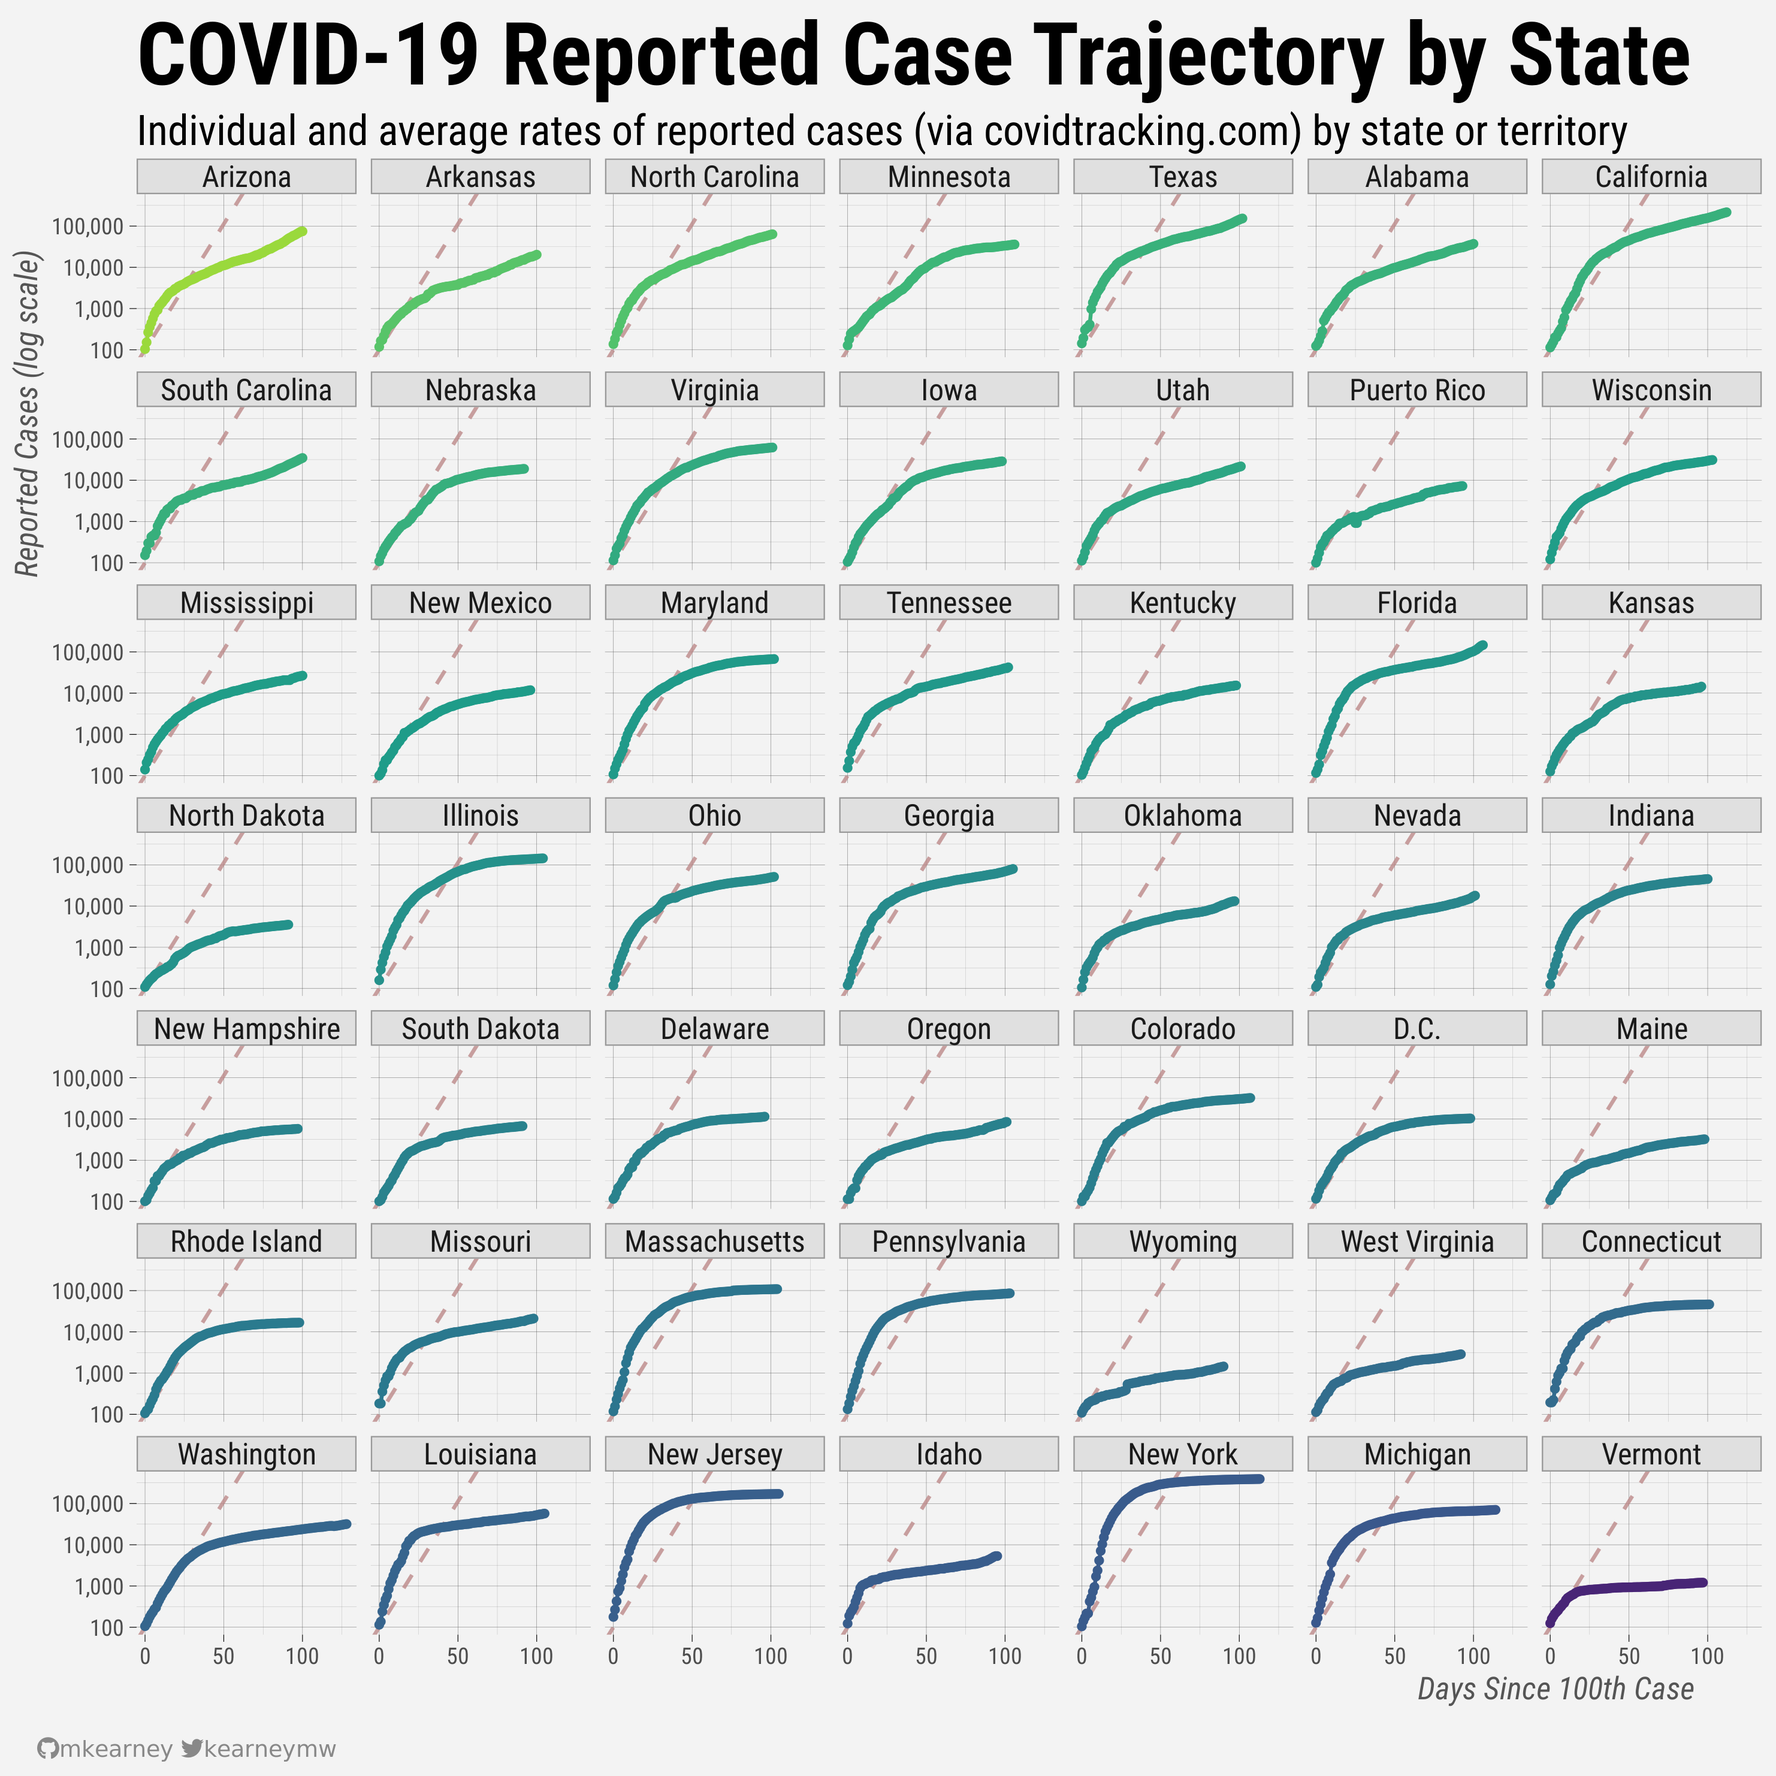
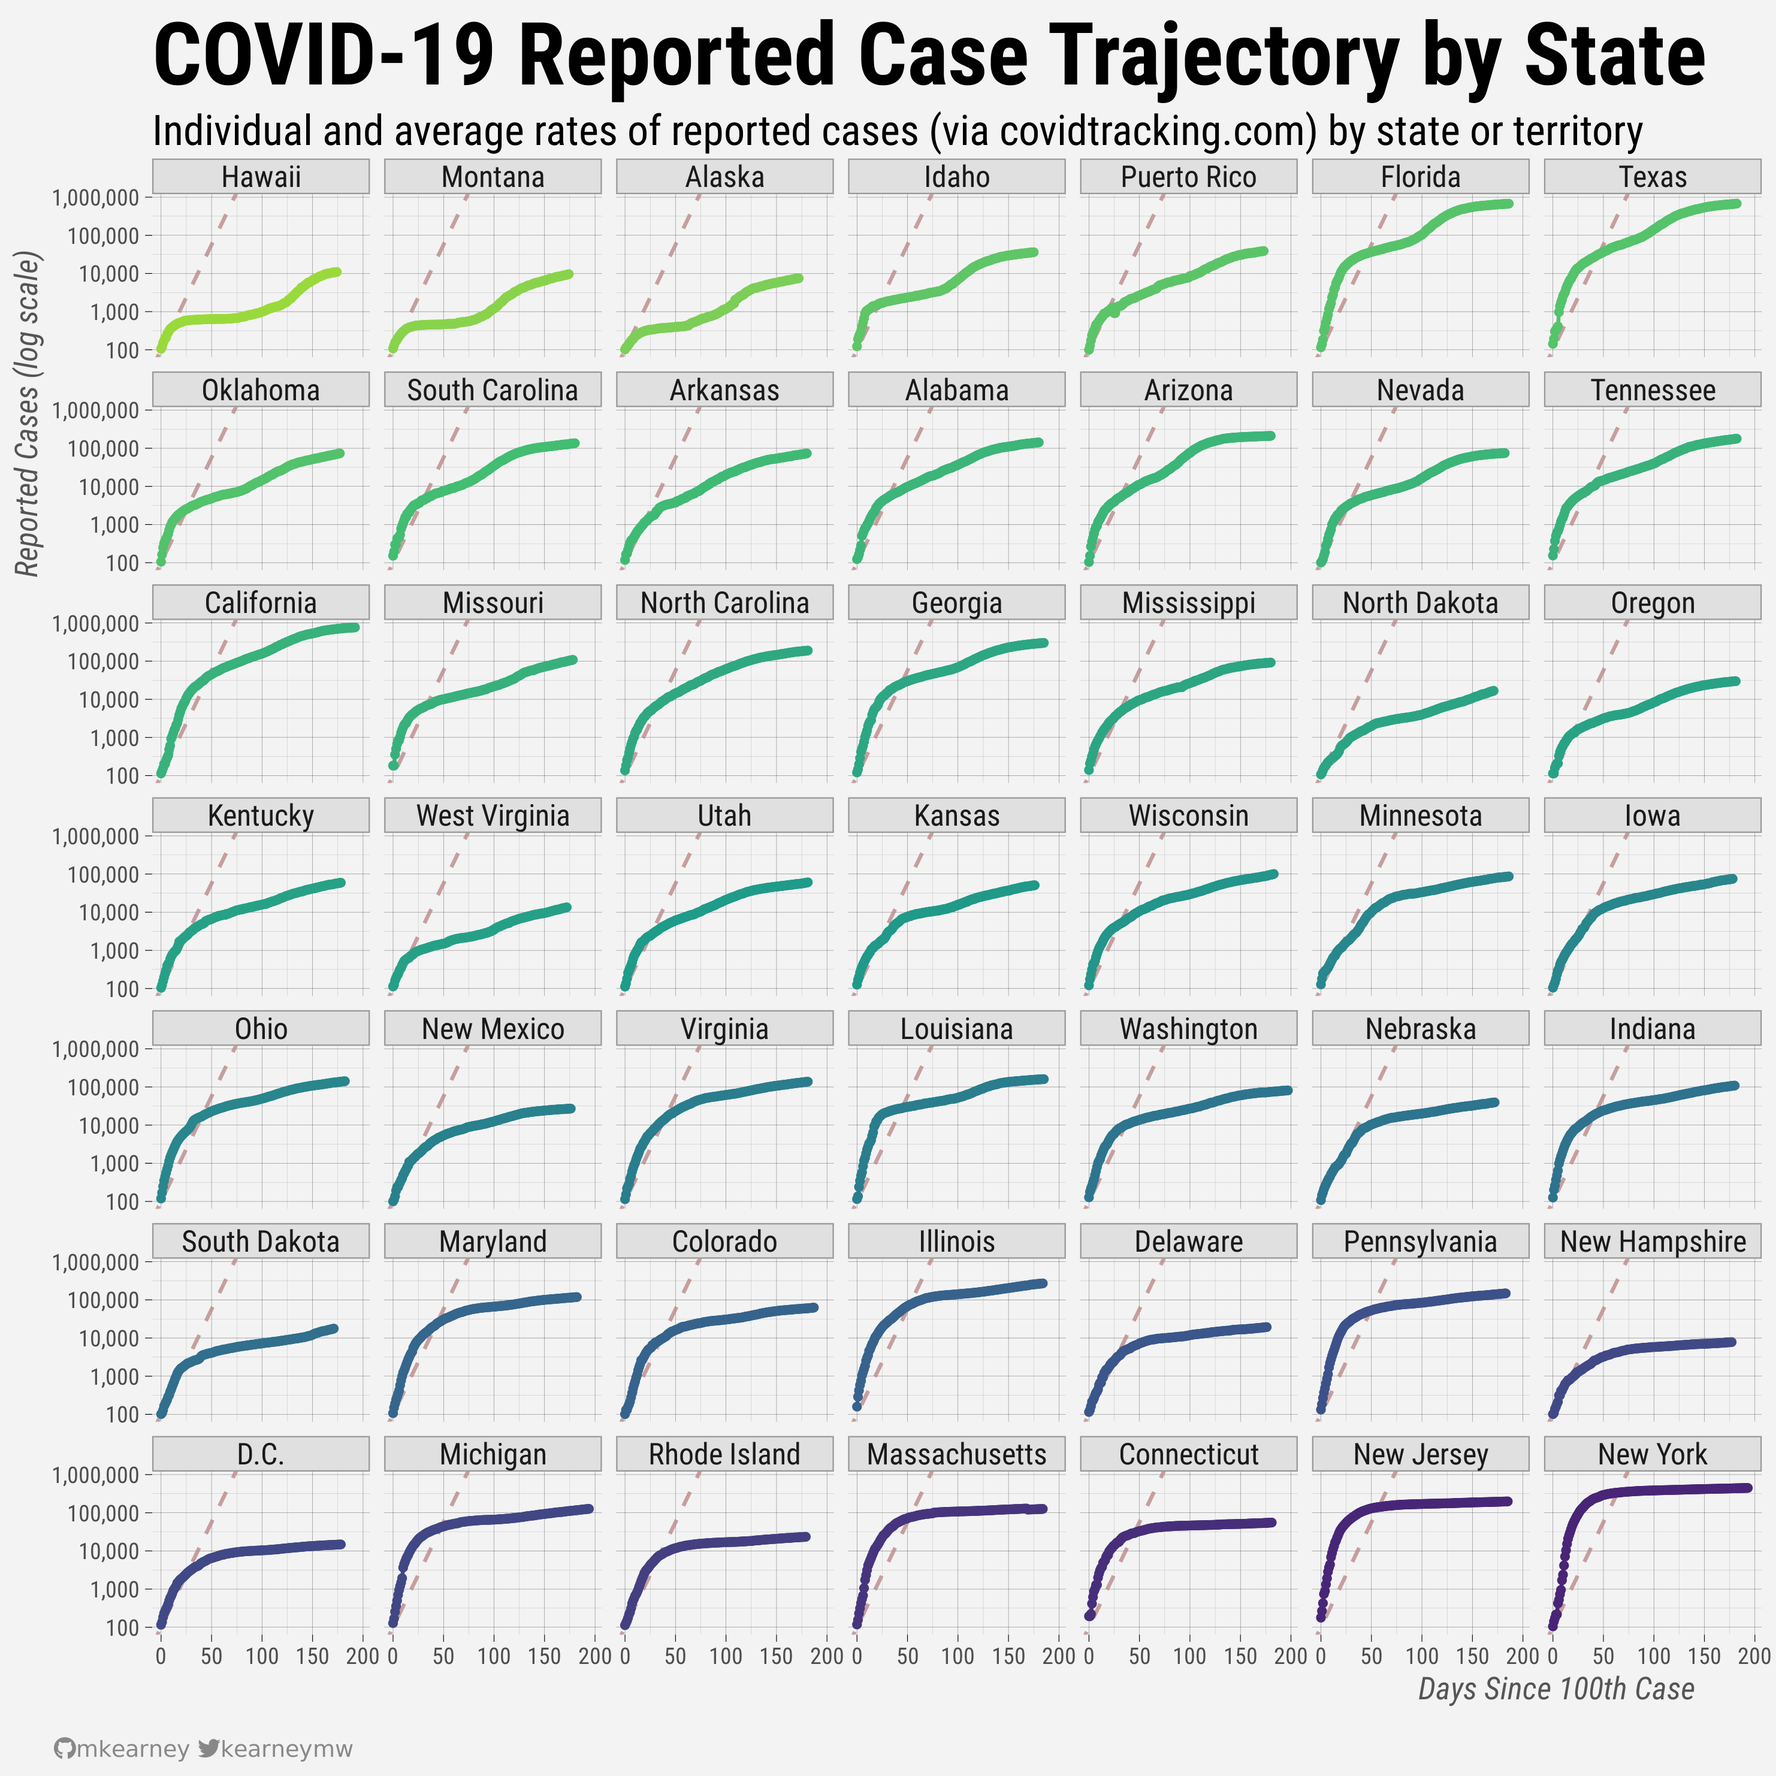
daily cron update

Changed region(s): [[0.031, 0.0, 0.9933, 0.9622], [0.031, 0.9622, 0.1862, 0.9933], [0.5897, 0.6518, 0.6208, 0.6829]]

diff --git a/README.md b/README.md
@@ -40,11 +40,11 @@ grouped by similar endpoints and included below.
     #> # A tibble: 1 x 25
     #>   date       states positive negative pending hospitalized_cu… hospitalized_cu…
     #>   <date>      <int>    <int>    <int>   <int>            <int>            <int>
-    #> 1 2020-06-29     56  2577473 28979934    2194            33198           240826
+    #> 1 2020-09-17     56  6641341 82709952   11768            29900           392173
     #> # … with 18 more variables: in_icu_currently <int>, in_icu_cumulative <int>,
     #> #   on_ventilator_currently <int>, on_ventilator_cumulative <int>,
     #> #   recovered <int>, date_checked <dttm>, death <int>, hospitalized <int>,
-    #> #   last_modified <dttm>, total <int>, total_test_results <int>, pos_neg <int>,
+    #> #   total_test_results <int>, last_modified <dttm>, total <int>, pos_neg <int>,
     #> #   death_increase <int>, hospitalized_increase <int>, negative_increase <int>,
     #> #   positive_increase <int>, total_test_results_increase <int>, hash <chr>
     ```
@@ -55,24 +55,24 @@ grouped by similar endpoints and included below.
     
     ``` r
     covid19_us_daily()
-    #> # A tibble: 160 x 25
+    #> # A tibble: 240 x 25
     #>    date       states positive negative pending hospitalized_cu… hospitalized_cu…
     #>    <date>      <int>    <int>    <int>   <int>            <int>            <int>
-    #>  1 2020-06-29     56  2577473 28979934    2194            33198           240826
-    #>  2 2020-06-28     56  2540983 28447030    2198            32117           240156
-    #>  3 2020-06-27     56  2498822 27902822    2186            32220           239576
-    #>  4 2020-06-26     56  2455351 27355416    2201            31423           238519
-    #>  5 2020-06-25     56  2410978 26796842    2133            31532           236993
-    #>  6 2020-06-24     56  2371917 26198316    2049            30826           235736
-    #>  7 2020-06-23     56  2333211 25724594    1891            29920           234426
-    #>  8 2020-06-22     56  2300193 25256198    2028            28490           233169
-    #>  9 2020-06-21     56  2273113 24818476    2084            27718           232369
-    #> 10 2020-06-20     56  2245856 24333555    2108            27757           231855
-    #> # … with 150 more rows, and 18 more variables: in_icu_currently <int>,
+    #>  1 2020-09-17     56  6641341 82709952   11768            29900           392173
+    #>  2 2020-09-16     56  6597783 81976741   10587            30278           390624
+    #>  3 2020-09-15     56  6557762 81351140    4966            30327           389107
+    #>  4 2020-09-14     56  6522317 80701552   10494            29867           387616
+    #>  5 2020-09-13     56  6488453 80329804   10467            29816           386679
+    #>  6 2020-09-12     56  6454000 79717367   10403            30662           386087
+    #>  7 2020-09-11     56  6411913 78910645   10813            31421           385011
+    #>  8 2020-09-10     56  6366986 78189575   10530            32419           383458
+    #>  9 2020-09-09     56  6329405 77613114    6551            32562           381926
+    #> 10 2020-09-08     56  6298422 77059685    8983            32263           379866
+    #> # … with 230 more rows, and 18 more variables: in_icu_currently <int>,
     #> #   in_icu_cumulative <int>, on_ventilator_currently <int>,
     #> #   on_ventilator_cumulative <int>, recovered <int>, date_checked <dttm>,
-    #> #   death <int>, hospitalized <int>, last_modified <dttm>, total <int>,
-    #> #   total_test_results <int>, pos_neg <int>, death_increase <int>,
+    #> #   death <int>, hospitalized <int>, total_test_results <int>,
+    #> #   last_modified <dttm>, total <int>, pos_neg <int>, death_increase <int>,
     #> #   hospitalized_increase <int>, negative_increase <int>,
     #> #   positive_increase <int>, total_test_results_increase <int>, hash <chr>
     ```
@@ -85,31 +85,167 @@ grouped by similar endpoints and included below.
     
     ``` r
     covid19_states()
-    #> # A tibble: 56 x 39
-    #>    date       state positive negative pending hospitalized_cu… hospitalized_cu…
-    #>    <date>     <chr>    <int>    <int>   <int>            <int>            <int>
-    #>  1 2020-06-29 AK         904   107805      NA               16               NA
-    #>  2 2020-06-29 AL       37175   356118      NA              715             2725
-    #>  3 2020-06-29 AR       20257   282279      NA              300             1380
-    #>  4 2020-06-29 AS           0      696      NA               NA               NA
-    #>  5 2020-06-29 AZ       74533   436890      NA             2721             4634
-    #>  6 2020-06-29 CA      216550  3845142      NA             6179               NA
-    #>  7 2020-06-29 CO       32307   287258      NA              234             5401
-    #>  8 2020-06-29 CT       46362   398614      NA               99            10268
-    #>  9 2020-06-29 DC       10292    85068      NA              121               NA
-    #> 10 2020-06-29 DE       11376    98555      NA               72               NA
-    #> # … with 46 more rows, and 32 more variables: in_icu_currently <int>,
-    #> #   in_icu_cumulative <int>, on_ventilator_currently <int>,
-    #> #   on_ventilator_cumulative <int>, recovered <int>, data_quality_grade <chr>,
-    #> #   last_update_et <chr>, date_modified <dttm>, check_time_et <chr>,
-    #> #   death <int>, hospitalized <int>, date_checked <dttm>,
-    #> #   total_tests_viral <int>, positive_tests_viral <int>,
-    #> #   negative_tests_viral <int>, positive_cases_viral <int>, fips <chr>,
-    #> #   positive_increase <int>, negative_increase <int>, total <int>,
-    #> #   total_test_results <int>, total_test_results_increase <int>, pos_neg <int>,
-    #> #   death_increase <int>, hospitalized_increase <int>, hash <chr>,
-    #> #   commercial_score <int>, negative_regular_score <int>, negative_score <int>,
-    #> #   positive_score <int>, score <int>, grade <chr>
+    #> $date
+    #> [1] 20200917
+    #> 
+    #> $state
+    #> [1] "MO"
+    #> 
+    #> $positive
+    #> [1] 108334
+    #> 
+    #> $negative
+    #> [1] 1070247
+    #> 
+    #> $pending
+    #> NULL
+    #> 
+    #> $hospitalizedCurrently
+    #> [1] 962
+    #> 
+    #> $hospitalizedCumulative
+    #> NULL
+    #> 
+    #> $inIcuCurrently
+    #> NULL
+    #> 
+    #> $inIcuCumulative
+    #> NULL
+    #> 
+    #> $onVentilatorCurrently
+    #> NULL
+    #> 
+    #> $onVentilatorCumulative
+    #> NULL
+    #> 
+    #> $recovered
+    #> NULL
+    #> 
+    #> $dataQualityGrade
+    #> [1] "B"
+    #> 
+    #> $lastUpdateEt
+    #> [1] "9/17/2020 00:00"
+    #> 
+    #> $dateModified
+    #> [1] "2020-09-17T00:00:00Z"
+    #> 
+    #> $checkTimeEt
+    #> [1] "09/16 20:00"
+    #> 
+    #> $death
+    #> [1] 1757
+    #> 
+    #> $hospitalized
+    #> NULL
+    #> 
+    #> $dateChecked
+    #> [1] "2020-09-17T00:00:00Z"
+    #> 
+    #> $totalTestsViral
+    #> [1] 1538232
+    #> 
+    #> $positiveTestsViral
+    #> [1] 115983
+    #> 
+    #> $negativeTestsViral
+    #> [1] 1419584
+    #> 
+    #> $positiveCasesViral
+    #> [1] 108334
+    #> 
+    #> $deathConfirmed
+    #> NULL
+    #> 
+    #> $deathProbable
+    #> NULL
+    #> 
+    #> $totalTestEncountersViral
+    #> NULL
+    #> 
+    #> $totalTestsPeopleViral
+    #> [1] 1178581
+    #> 
+    #> $totalTestsAntibody
+    #> NULL
+    #> 
+    #> $positiveTestsAntibody
+    #> NULL
+    #> 
+    #> $negativeTestsAntibody
+    #> NULL
+    #> 
+    #> $totalTestsPeopleAntibody
+    #> [1] 71852
+    #> 
+    #> $positiveTestsPeopleAntibody
+    #> [1] 3250
+    #> 
+    #> $negativeTestsPeopleAntibody
+    #> [1] 68602
+    #> 
+    #> $totalTestsPeopleAntigen
+    #> NULL
+    #> 
+    #> $positiveTestsPeopleAntigen
+    #> NULL
+    #> 
+    #> $totalTestsAntigen
+    #> NULL
+    #> 
+    #> $positiveTestsAntigen
+    #> NULL
+    #> 
+    #> $fips
+    #> [1] "29"
+    #> 
+    #> $positiveIncrease
+    #> [1] 1747
+    #> 
+    #> $negativeIncrease
+    #> [1] 12451
+    #> 
+    #> $total
+    #> [1] 1178581
+    #> 
+    #> $totalTestResultsSource
+    #> [1] "posNeg"
+    #> 
+    #> $totalTestResults
+    #> [1] 1178581
+    #> 
+    #> $totalTestResultsIncrease
+    #> [1] 14198
+    #> 
+    #> $posNeg
+    #> [1] 1178581
+    #> 
+    #> $deathIncrease
+    #> [1] 18
+    #> 
+    #> $hospitalizedIncrease
+    #> [1] 0
+    #> 
+    #> $hash
+    #> [1] "8f1e20026eaaec08f70121c09a237b778cf58008"
+    #> 
+    #> $commercialScore
+    #> [1] 0
+    #> 
+    #> $negativeRegularScore
+    #> [1] 0
+    #> 
+    #> $negativeScore
+    #> [1] 0
+    #> 
+    #> $positiveScore
+    #> [1] 0
+    #> 
+    #> $score
+    #> [1] 0
+    #> 
+    #> $grade
+    #> [1] ""
     ```
 
   - **`covid19_states_daily()`**: Counts (`positive`, `negative`,
@@ -118,31 +254,39 @@ grouped by similar endpoints and included below.
     
     ``` r
     covid19_states_daily()
-    #> # A tibble: 6,513 x 39
+    #> # A tibble: 11,074 x 54
     #>    date       state positive negative pending hospitalized_cu… hospitalized_cu…
     #>    <date>     <chr>    <int>    <int>   <int>            <int>            <int>
-    #>  1 2020-06-29 AK         904   107805      NA               16               NA
-    #>  2 2020-06-29 AL       37175   356118      NA              715             2725
-    #>  3 2020-06-29 AR       20257   282279      NA              300             1380
-    #>  4 2020-06-29 AS           0      696      NA               NA               NA
-    #>  5 2020-06-29 AZ       74533   436890      NA             2721             4634
-    #>  6 2020-06-29 CA      216550  3845142      NA             6179               NA
-    #>  7 2020-06-29 CO       32307   287258      NA              234             5401
-    #>  8 2020-06-29 CT       46362   398614      NA               99            10268
-    #>  9 2020-06-29 DC       10292    85068      NA              121               NA
-    #> 10 2020-06-29 DE       11376    98555      NA               72               NA
-    #> # … with 6,503 more rows, and 32 more variables: in_icu_currently <int>,
+    #>  1 2020-09-17 AK        7471   408392      NA               41               NA
+    #>  2 2020-09-17 AL      141757   903156      NA              740            16079
+    #>  3 2020-09-17 AR       73211   783707      NA              389             4896
+    #>  4 2020-09-17 AS           0     1571      NA               NA               NA
+    #>  5 2020-09-17 AZ      211660  1141222      NA              594            21821
+    #>  6 2020-09-17 CA      766201 12313836      NA             3621               NA
+    #>  7 2020-09-17 CO       62686   739236      NA              248             7288
+    #>  8 2020-09-17 CT       55386  1352887      NA               75            11447
+    #>  9 2020-09-17 DC       14790   326528      NA              100               NA
+    #> 10 2020-09-17 DE       19318   247850      NA               66               NA
+    #> # … with 11,064 more rows, and 47 more variables: in_icu_currently <int>,
     #> #   in_icu_cumulative <int>, on_ventilator_currently <int>,
     #> #   on_ventilator_cumulative <int>, recovered <int>, data_quality_grade <chr>,
     #> #   last_update_et <chr>, date_modified <chr>, check_time_et <chr>,
     #> #   death <int>, hospitalized <int>, date_checked <chr>,
     #> #   total_tests_viral <int>, positive_tests_viral <int>,
-    #> #   negative_tests_viral <int>, positive_cases_viral <int>, fips <chr>,
+    #> #   negative_tests_viral <int>, positive_cases_viral <int>,
+    #> #   death_confirmed <int>, death_probable <int>,
+    #> #   total_test_encounters_viral <int>, total_tests_people_viral <int>,
+    #> #   total_tests_antibody <int>, positive_tests_antibody <int>,
+    #> #   negative_tests_antibody <int>, total_tests_people_antibody <int>,
+    #> #   positive_tests_people_antibody <int>, negative_tests_people_antibody <int>,
+    #> #   total_tests_people_antigen <int>, positive_tests_people_antigen <int>,
+    #> #   total_tests_antigen <int>, positive_tests_antigen <int>, fips <chr>,
     #> #   positive_increase <int>, negative_increase <int>, total <int>,
-    #> #   total_test_results <int>, total_test_results_increase <int>, pos_neg <int>,
-    #> #   death_increase <int>, hospitalized_increase <int>, hash <chr>,
-    #> #   commercial_score <int>, negative_regular_score <int>, negative_score <int>,
-    #> #   positive_score <int>, score <int>, grade <chr>
+    #> #   total_test_results_source <chr>, total_test_results <int>,
+    #> #   total_test_results_increase <int>, pos_neg <int>, death_increase <int>,
+    #> #   hospitalized_increase <int>, hash <chr>, commercial_score <int>,
+    #> #   negative_regular_score <int>, negative_score <int>, positive_score <int>,
+    #> #   score <int>, grade <chr>
     ```
 
   - **`covid19_states_info()`**: State government links, Twitter
@@ -150,20 +294,22 @@ grouped by similar endpoints and included below.
     
     ``` r
     covid19_states_info()
-    #> # A tibble: 56 x 11
+    #> # A tibble: 56 x 13
     #>    state notes covid19site covid19site_sec… covid19site_ter… twitter
     #>    <chr> <chr> <chr>       <chr>            <chr>            <chr>  
-    #>  1 AK    "Tot… http://dhs… "http://dhss.al… "https://alaska… "@Alas…
-    #>  2 AL    "Neg… https://al… "https://dph1.a… ""               "@alpu…
-    #>  3 AR     <NA> https://ww… "https://adem.m… ""               "@adhp…
-    #>  4 AS    "Our… https://ww… "https://www.fa… ""               ""     
-    #>  5 AZ    "Das… https://ww… "https://tablea… "https://tablea… "@azdh…
-    #>  6 CA    "Cal… https://ww… "https://www.cd… ""               "@CAPu…
-    #>  7 CO    "Neg… https://co… "https://covid1… "https://covid1… "@cdph…
-    #>  8 CT    "Neg… https://da… ""               ""               "@ctdp…
-    #>  9 DC    "Pos… https://co… ""               ""               "@_DCH…
-    #> 10 DE    "As … https://dh… ""               ""               "@Dela…
-    #> # … with 46 more rows, and 5 more variables: covid19site_old <chr>, name <chr>,
+    #>  1 AK    "Ala… http://dhs… "https://experi… "https://alaska… "@Alas…
+    #>  2 AL    "Ala… https://al… "https://alpubl… "https://servic… "@alpu…
+    #>  3 AR    "On … https://ww… "https://experi… "https://experi… "@adhp…
+    #>  4 AS    "Ame… https://ww… "https://www.fa… ""               ""     
+    #>  5 AZ    "Ari… https://ww… "https://tablea… "https://tablea… "@azdh…
+    #>  6 CA    "Pri… https://up… "https://public… "https://public… "@CAPu…
+    #>  7 CO    "On … https://co… "https://public… ""               "@cdph…
+    #>  8 CT    "On … https://da… ""               ""               "@ctdp…
+    #>  9 DC    "On … https://co… ""               ""               "@_DCH…
+    #> 10 DE    "On … https://my… ""               ""               "@Dela…
+    #> # … with 46 more rows, and 7 more variables: covid19site_old <chr>,
+    #> #   covid_tracking_project_preferred_total_test_units <chr>,
+    #> #   covid_tracking_project_preferred_total_test_field <chr>, name <chr>,
     #> #   fips <chr>, pui <chr>, pum <lgl>
     ```
 
